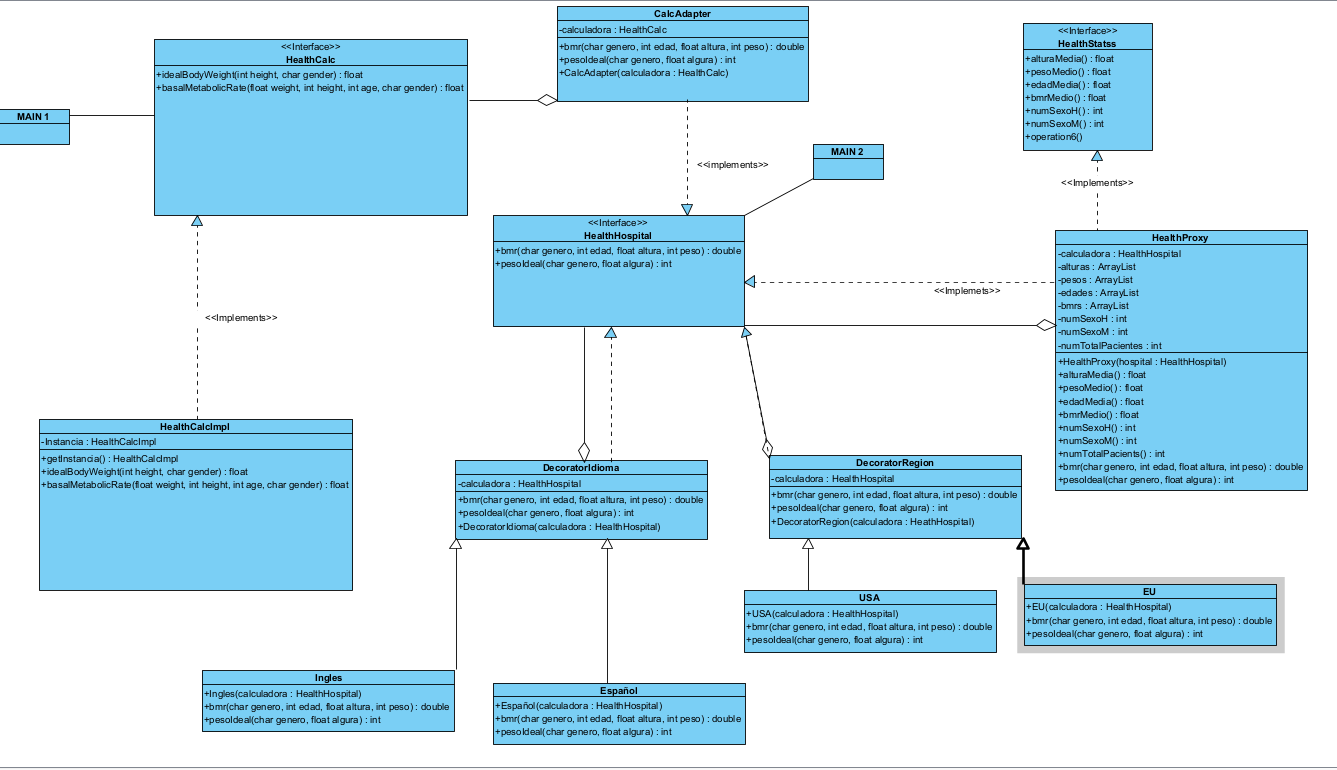
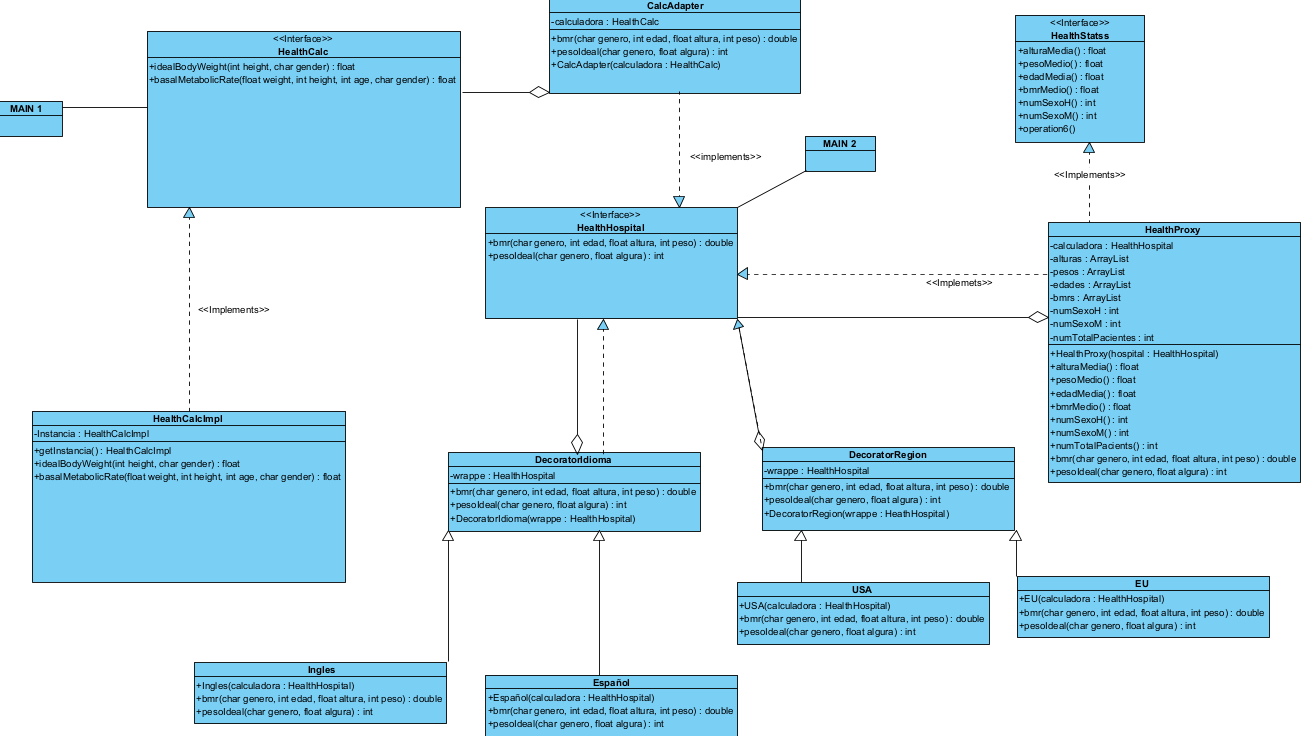
fix: Decorator Pattern Diagram

diff --git a/project-healthcalc/src/main/java/healthcalc/IdiomaDecorator.java b/project-healthcalc/src/main/java/healthcalc/IdiomaDecorator.java
@@ -7,6 +7,14 @@ public abstract class IdiomaDecorator implements  HealthHospital {
     public IdiomaDecorator(HealthHospital wrappe) {
         this.wrappee = wrappe;
     }
+    @Override
+    public double bmr(char genero, int edad, float altura, int peso) throws Exception {
+        return wrappee.bmr(genero, edad, altura, peso);
+    }
+    @Override
+    public int pesoIdeal(char genero, float altura) throws Exception {
+        return wrappee.pesoIdeal(genero, altura);
+    }
 
     
 }

diff --git a/project-healthcalc/src/main/java/healthcalc/RegionDecorator.java b/project-healthcalc/src/main/java/healthcalc/RegionDecorator.java
@@ -7,6 +7,14 @@ public abstract class RegionDecorator implements HealthHospital{
     public RegionDecorator(HealthHospital wrappe) {
         this.wrappee = wrappe;
     }
+    @Override
+    public double bmr(char genero, int edad, float altura, int peso) throws Exception {
+        return wrappee.bmr(genero, edad, altura, peso);
+    }
+    @Override
+    public int pesoIdeal(char genero, float altura) throws Exception {
+        return wrappee.pesoIdeal(genero, altura);
+    }
 
 
     
